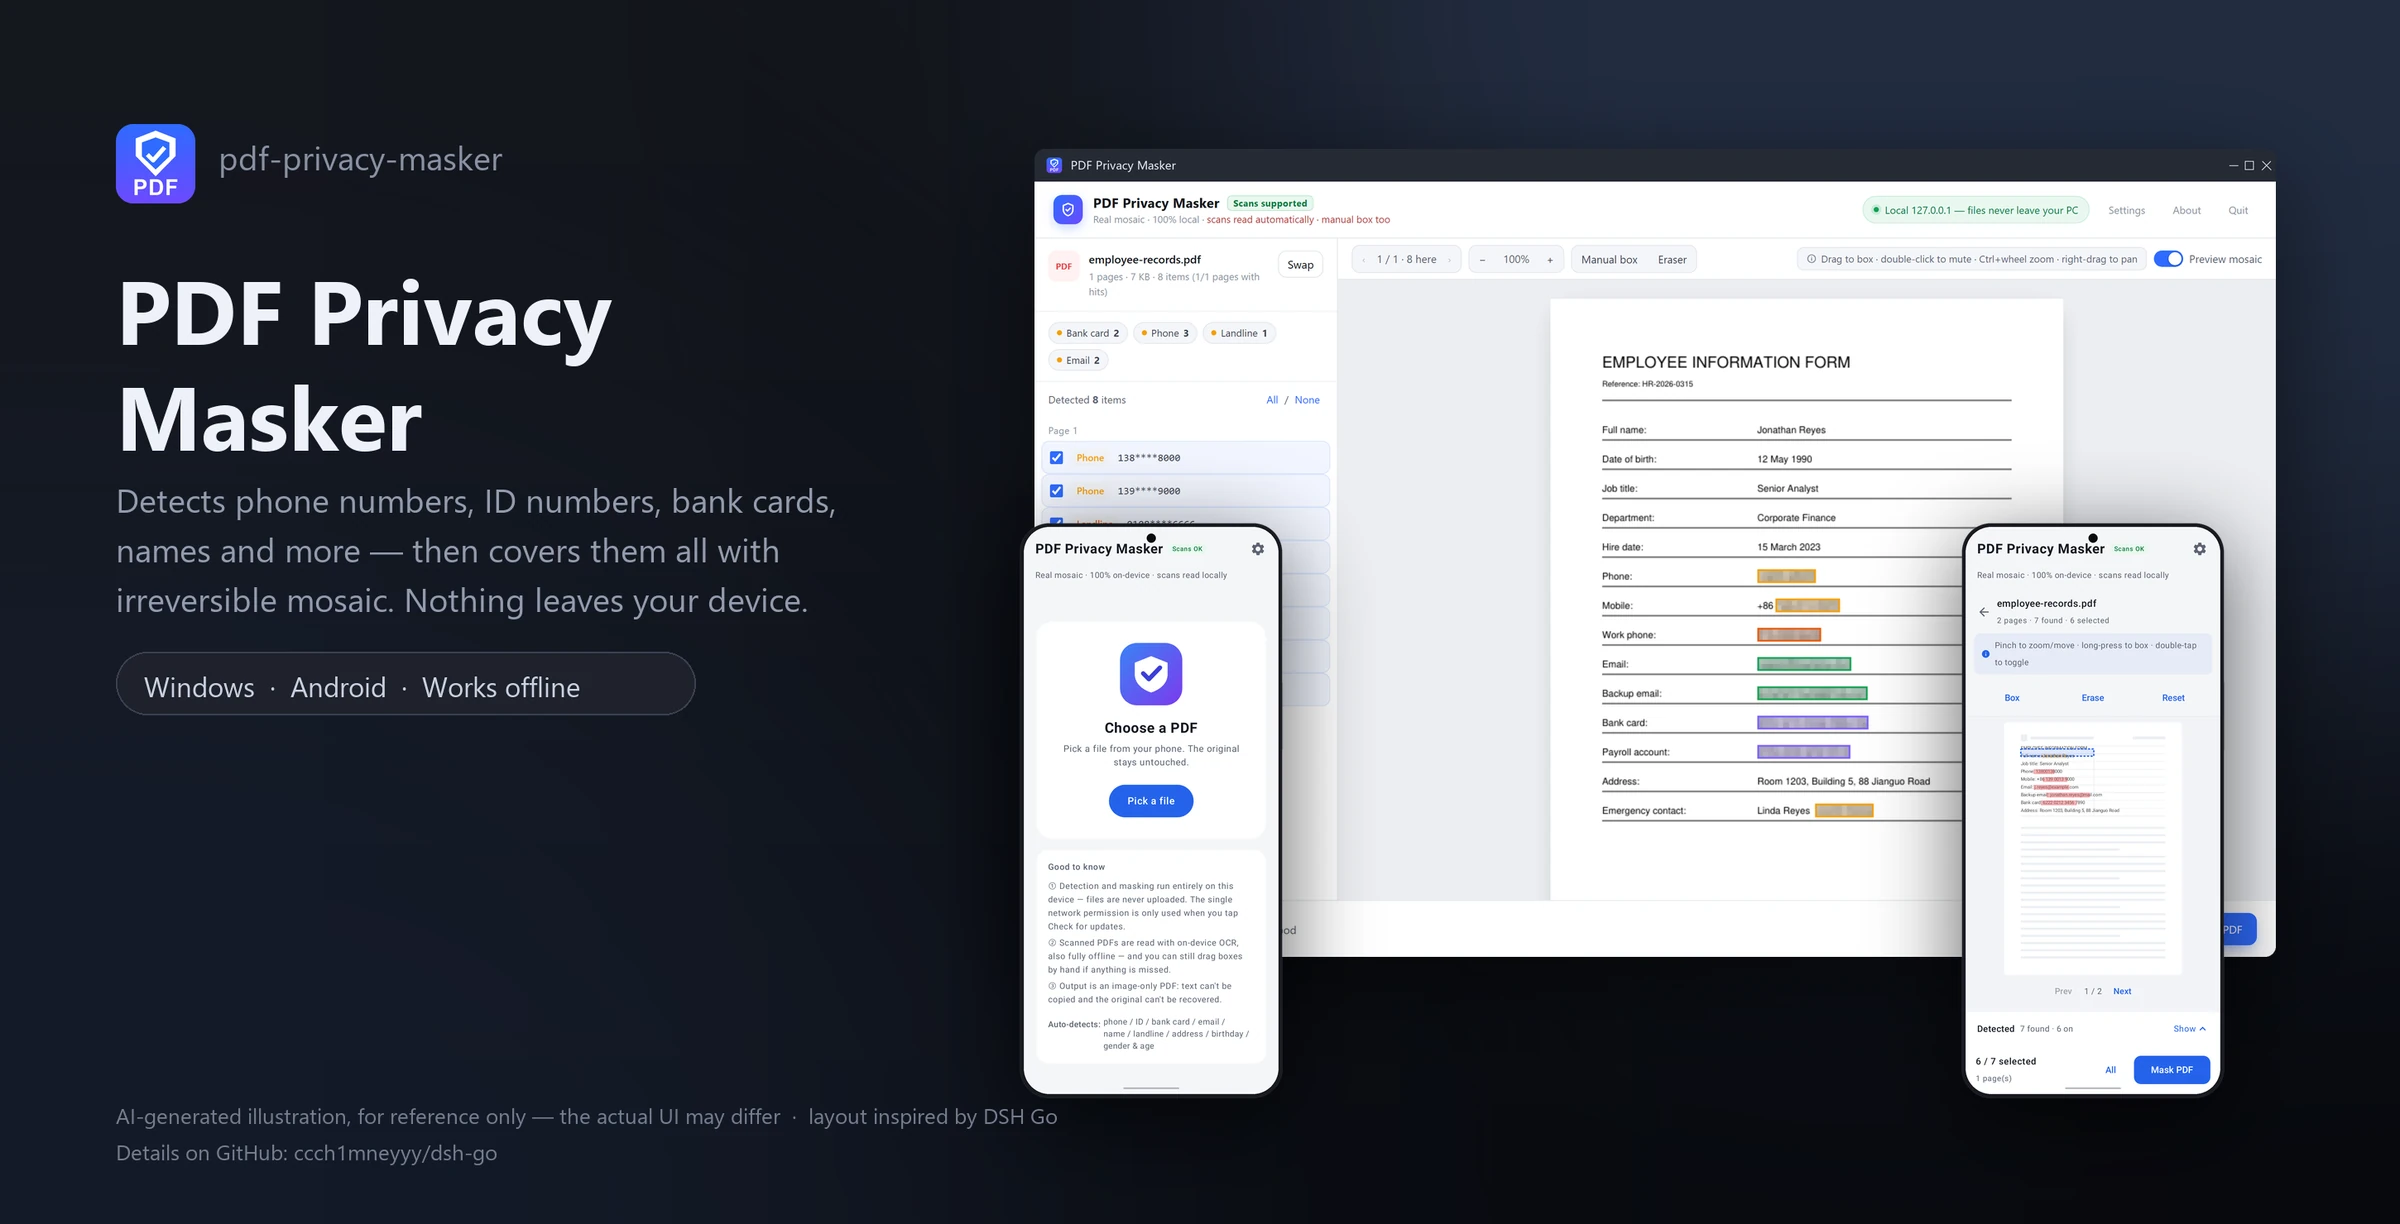
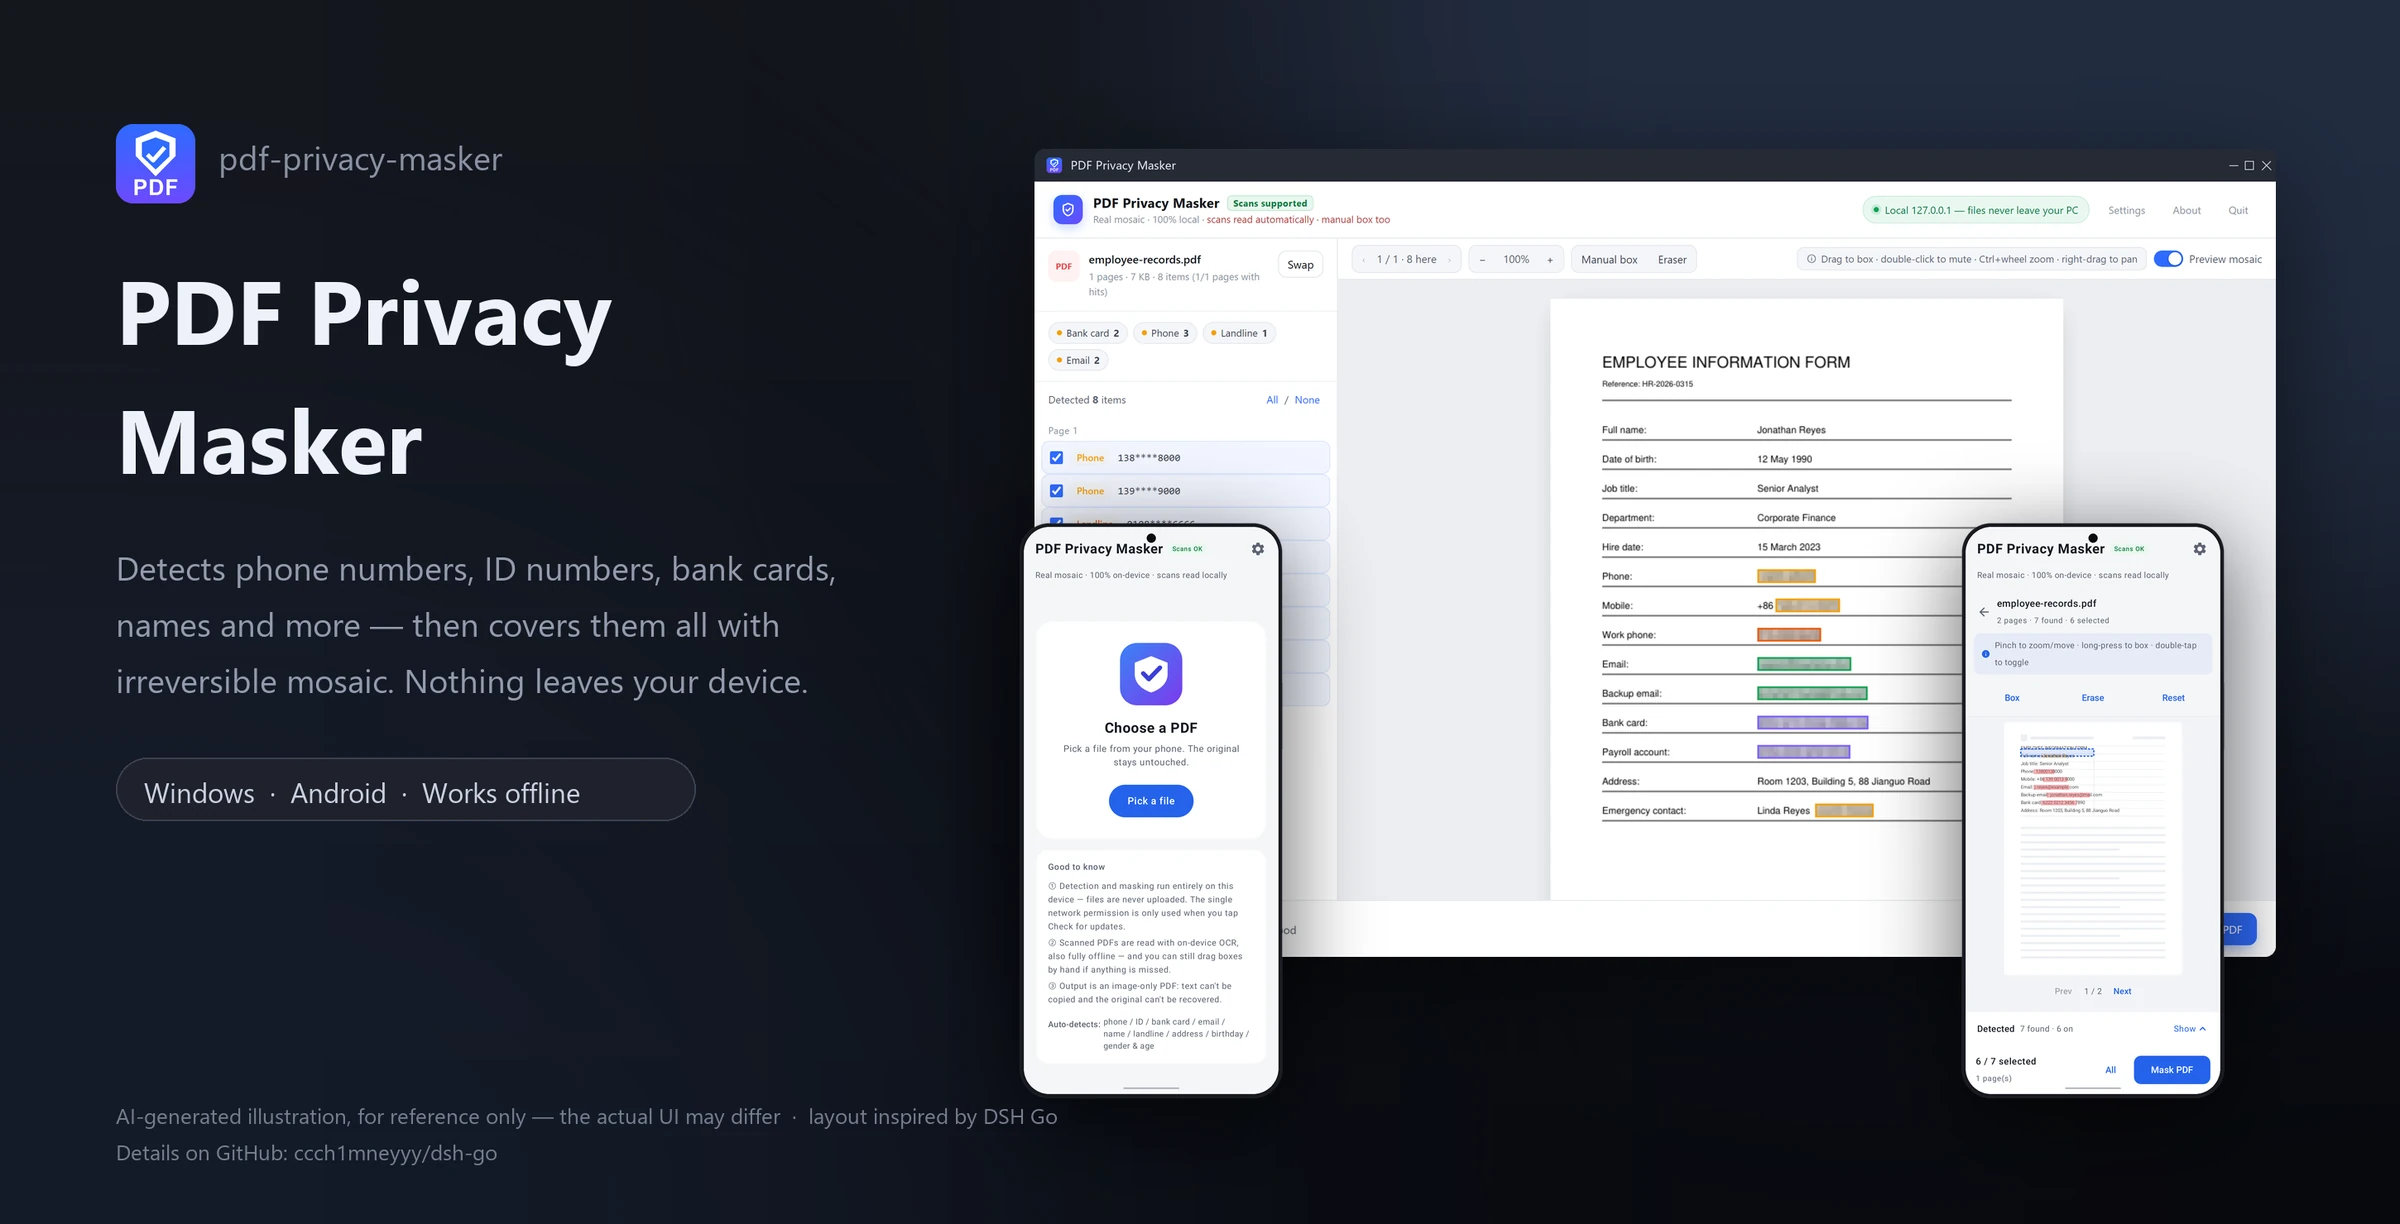
docs(readme): 首图文字行距拉开——标题两行、说明文字与标签之间都留出呼吸感

diff --git a/dev/make_readme_shots.py b/dev/make_readme_shots.py
@@ -589,18 +589,20 @@ def hero(lang):
     x = 140 + 96 + 28
     d.text((x, 162), "pdf-privacy-masker", font=font(40, en=True), fill=TH["brand"])
 
+    # 标题、说明、胶囊三块的行距参考 DSH Go：标题两行之间留出明显空隙，
+    # 块与块之间也拉开，整块读起来不挤。
     y = 300
     for line in HERO[lang]["title"]:
         d.text((140, y), line, font=font(108, bold=True, en=(lang == "en")),
                fill=TH["title"])
-        y += 128
-    y += 20
+        y += 156
+    y += 46
     for line in HERO[lang]["sub"]:
         d.text((140, y), line, font=font(40, en=(lang == "en")), fill=TH["sub"])
-        y += 60
-    d.rounded_rectangle([140, y + 32, 140 + 700, y + 32 + 76], radius=38,
+        y += 68
+    d.rounded_rectangle([140, y + 54, 140 + 700, y + 54 + 76], radius=38,
                         fill=TH["pill"], outline=TH["pill_edge"], width=2)
-    d.text((140 + 34, y + 32 + 19), HERO[lang]["pill"],
+    d.text((140 + 34, y + 54 + 19), HERO[lang]["pill"],
            font=font(33, en=(lang == "en")), fill=TH["pill_text"])
 
     # 左下角两行小字：第一行说明这张图是合成示意、并注明版式借鉴来源，
